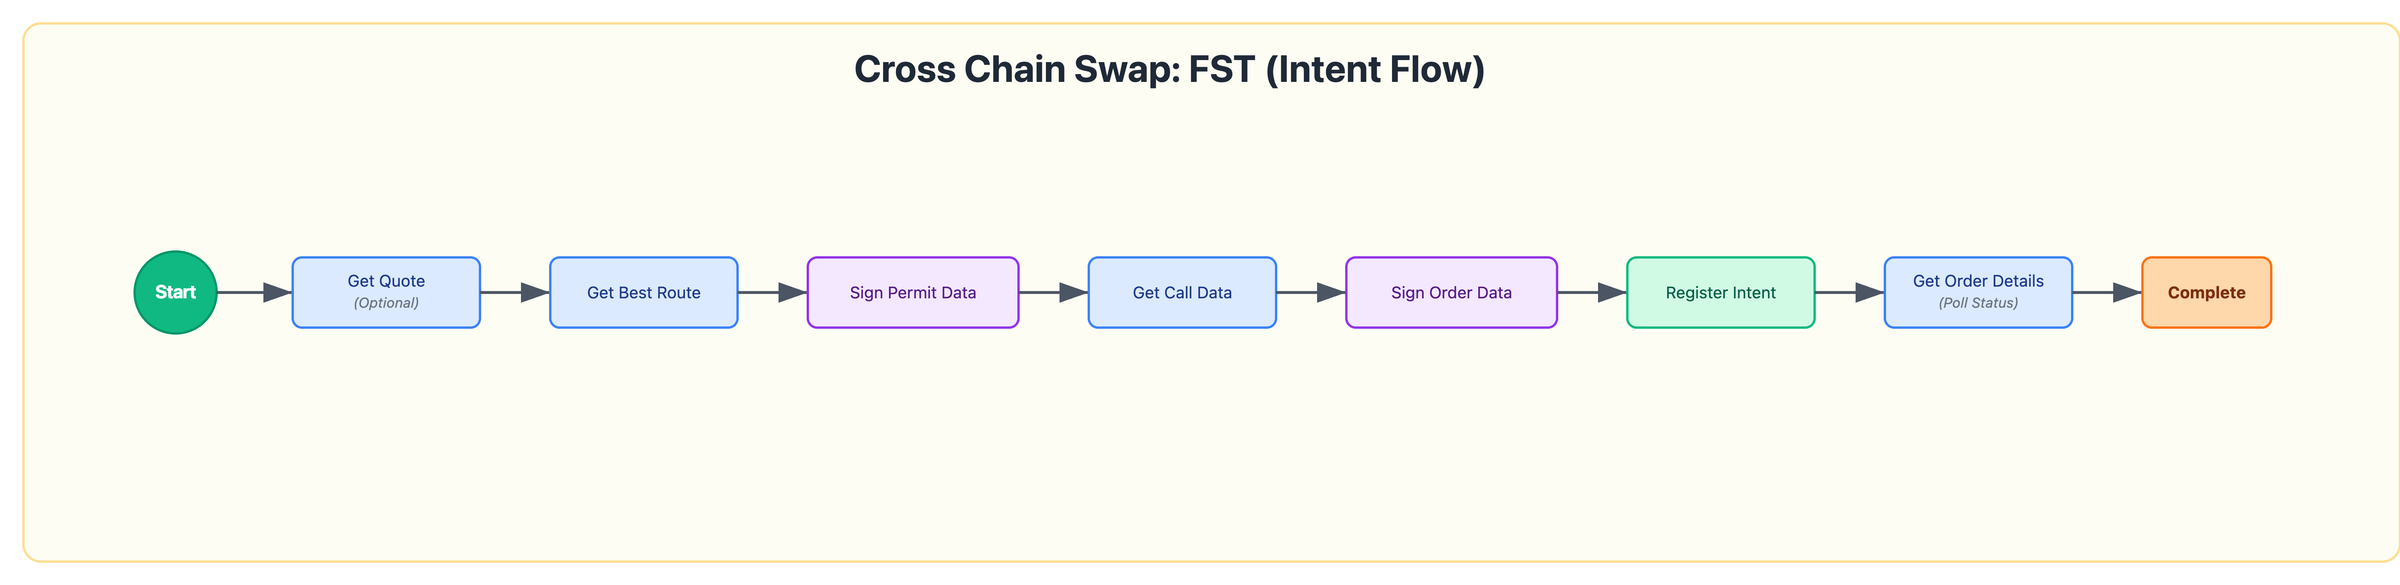
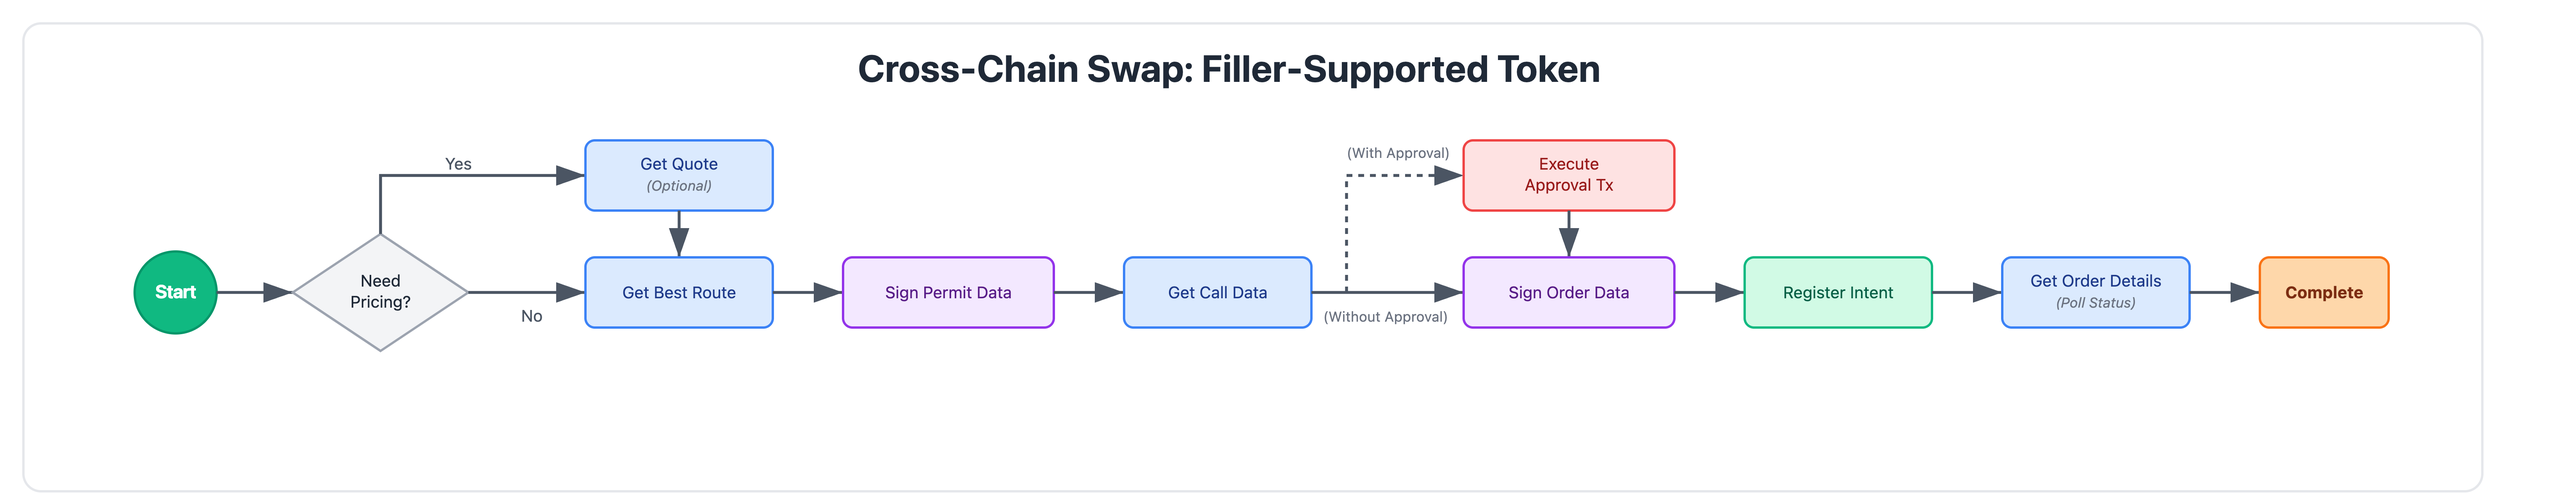
fix: the ui based on docs

Changed region(s): [[0.0312, 0.2791, 0.9678, 0.6822], [0.0, 0.031, 1.0, 0.9922], [0.3122, 0.093, 0.6244, 0.186]]

diff --git a/vite.config.ts b/vite.config.ts
@@ -1,44 +1,44 @@
-// import { defineConfig, loadEnv } from "vite";
-// import react from "@vitejs/plugin-react-swc";
-// import tailwindcss from '@tailwindcss/vite';
-// import { nodePolyfills } from "vite-plugin-node-polyfills";
-
-// export default defineConfig(({ mode }) => {
-//   const env = loadEnv(mode, process.cwd(), "");
-
-//   return {
-//     plugins: [react(), tailwindcss(), nodePolyfills()],
-//     // Only for Local Development
-//     // server: {
-//     //   proxy: {
-//     //     "/trade-stage-api-proxy": {
-//     //       target: "https://okto-trade-service.oktostage.com",
-//     //       changeOrigin: true,
-//     //       secure: false,
-//     //       rewrite: (path) => path.replace(/^\/trade-stage-api-proxy/, "/v1"),
-//     //       headers: {
-//     //         "X-Api-Key": env.VITE_TRADE_SERVICE_SANDBOX_API_KEY,
-//     //       },
-//     //     },
-//     //     "/trade-sandbox-api-proxy": {
-//     //       target: "https://sandbox-okto-trade-service-kong.okto.tech/",
-//     //       changeOrigin: true,
-//     //       secure: false,
-//     //       rewrite: (path) => path.replace(/^\/trade-sandbox-api-proxy/, "/v1"),
-//     //       headers: {
-//     //         "X-Api-Key": env.VITE_TRADE_SERVICE_SANDBOX_API_KEY,
-//     //       },
-//     //     },
-//     //   },
-//     // },
-//   };
-// });
-
-import { defineConfig } from "vite";
+import { defineConfig, loadEnv } from "vite";
 import react from "@vitejs/plugin-react-swc";
 import tailwindcss from '@tailwindcss/vite';
 import { nodePolyfills } from "vite-plugin-node-polyfills";
 
-export default defineConfig({
-  plugins: [react(), tailwindcss(), nodePolyfills()],
+export default defineConfig(({ mode }) => {
+  const env = loadEnv(mode, process.cwd(), "");
+
+  return {
+    plugins: [react(), tailwindcss(), nodePolyfills()],
+    // Only for Local Development
+    server: {
+      proxy: {
+        "/trade-stage-api-proxy": {
+          target: "https://okto-trade-service.oktostage.com",
+          changeOrigin: true,
+          secure: false,
+          rewrite: (path) => path.replace(/^\/trade-stage-api-proxy/, "/v1"),
+          headers: {
+            "X-Api-Key": env.VITE_TRADE_SERVICE_SANDBOX_API_KEY,
+          },
+        },
+        "/trade-sandbox-api-proxy": {
+          target: "https://sandbox-okto-trade-service-kong.okto.tech/",
+          changeOrigin: true,
+          secure: false,
+          rewrite: (path) => path.replace(/^\/trade-sandbox-api-proxy/, "/v1"),
+          headers: {
+            "X-Api-Key": env.VITE_TRADE_SERVICE_SANDBOX_API_KEY,
+          },
+        },
+      },
+    },
+  };
 });
+
+// import { defineConfig } from "vite";
+// import react from "@vitejs/plugin-react-swc";
+// import tailwindcss from '@tailwindcss/vite';
+// import { nodePolyfills } from "vite-plugin-node-polyfills";
+
+// export default defineConfig({
+//   plugins: [react(), tailwindcss(), nodePolyfills()],
+// });

diff --git a/src/pages/CrossChainTradePage.tsx b/src/pages/CrossChainTradePage.tsx
@@ -12,6 +12,7 @@ import {
 } from 'wagmi';
 import { ConnectButton } from '@rainbow-me/rainbowkit';
 import CrossChainFlow from "../assets/cross-chain-swaps-fst-flow.png";
+import CrossChainFlowNfst from "../assets/cross-chain-swaps-nfst-flow.png";
 
 // Import your existing components
 import TokenInput from "../components/TokenInput";
@@ -503,6 +504,10 @@ function CrossChainTradePage() {
     }
   };
 
+  const handleApproval = async () => {
+
+  }
+
   // Initialize bridge transaction
   const handleInitBridgeTransaction = async () => {
     console.log("Init Bridge Transaction called");
@@ -706,13 +711,13 @@ function CrossChainTradePage() {
   const outputAmount = state.routeOutputAmount || state.quoteOutputAmount;
 
   const actionLabel = {
-    accept: "Accept Cross-Chain Trade",
-    generate_call_data: "Generate Call Data",
-    init_bridge_txn: "Initialize Bridge",
+    accept: "Sign Permit Data",
+    generate_call_data: "Get Call Data",
+    init_bridge_txn: "Execute Init Txn",
     register_intent: "Register Intent",
     get_best_route: "Get Best Route",
-    idle: "Accept Cross-Chain Trade",
-    get_quote: "Getting Quote...",
+    idle: "Sign Permit Data",
+    get_quote: "Get Quote",
   }[state.currentAction];
 
   return (
@@ -871,6 +876,7 @@ function CrossChainTradePage() {
           <br />
           <span>Here's the diagram explaining the <strong>Cross Chain Swap Flow using Okto Trade Service:</strong></span>
           <img src={CrossChainFlow} />
+          <img src={CrossChainFlowNfst} className="mt-1" />
         </div>
 
           {outputAmount && state.fromChain !== state.toChain && (
@@ -923,7 +929,7 @@ function CrossChainTradePage() {
             {state.isTxSubmitting && state.currentAction === "get_best_route"
               ? "Getting Route Info..."
               : state.routeOutputAmount
-                ? "Proceed with Call Data →"
+                ? "Proceed with Accept Trade →"
                 : "Get Best Route"
             }
           </button>
@@ -946,7 +952,6 @@ function CrossChainTradePage() {
               setState(prev => ({
                 ...prev,
                 fromToken: null,
-                toToken: null,
                 fromChain: null,
                 toChain: null,
                 amount: "",

diff --git a/src/pages/SameChainTradePage.tsx b/src/pages/SameChainTradePage.tsx
@@ -642,7 +642,7 @@ function SameChainTradePage() {
               ? "Getting Quote..."
               : state.quoteOutputAmount || state.routeResponse
                 ? "Proceed to Get Best Route →"
-                : "1. Get Quote"
+                : "Get Quote"
             }
           </button>
 
@@ -661,7 +661,7 @@ function SameChainTradePage() {
               ? "Getting Route..."
               : state.routeResponse
                 ? "Proceed with Execute Swap →"
-                : "2. Get Route"
+                : "Get Route"
             }
           </button>
 
@@ -675,7 +675,7 @@ function SameChainTradePage() {
           >
             {state.isTxSubmitting && (state.currentAction === "approve" || state.currentAction === "swap")
               ? "Executing..."
-              : "3. Execute"
+              : "Execute"
             }
           </button>
 

diff --git a/src/api/client.ts b/src/api/client.ts
@@ -15,18 +15,18 @@ export const tradeServiceStagingClient = axios.create({
 });
 
 // Only for Local Development
-// export const tradeServiceSandboxClient = axios.create({
-//   baseURL: "/trade-sandbox-api-proxy",
-//   timeout: 30000,
-// });
-
 export const tradeServiceSandboxClient = axios.create({
-  baseURL: "https://sandbox-okto-trade-service-kong.okto.tech/v1",
+  baseURL: "/trade-sandbox-api-proxy",
   timeout: 30000,
-  headers: {
-    "X-Api-Key": TRADE_SANDBOX_API_KEY,
-  },
 });
+
+// export const tradeServiceSandboxClient = axios.create({
+//   baseURL: "https://sandbox-okto-trade-service-kong.okto.tech/v1",
+//   timeout: 30000,
+//   headers: {
+//     "X-Api-Key": TRADE_SANDBOX_API_KEY,
+//   },
+// });
 
 export const tradeServiceProductionClient = axios.create({
   baseURL: "https://okto-trade-service-kong.okto.tech/v1",

diff --git a/src/constants/chains.ts b/src/constants/chains.ts
@@ -10,7 +10,7 @@ export const CHAIN_ID_TO_NAME: Record<number, string> = {
 export const CHAIN_NATIVE_SYMBOL: Record<number, string> = {
   1: "ETH", // Ethereum
   56: "BNB", // BNB Chain
-  137: "MATIC", // Polygon
+  137: "POL", // Polygon
   8453: "BASE", // Base
   42161: "ETH", // Arbitrum
   10: "ETH", // Optimism
@@ -43,7 +43,7 @@ export const CAIP_TO_NAME: Record<string, string> = {
 export const CAIP_TO_NATIVE_SYMBOL: Record<string, string> = {
   "eip155:1": "ETH",
   "eip155:56": "BNB",
-  "eip155:137": "MATIC",
+  "eip155:137": "POL",
   "eip155:8453": "BASE",
   "eip155:42161": "ETH",
   "eip155:10": "ETH",
